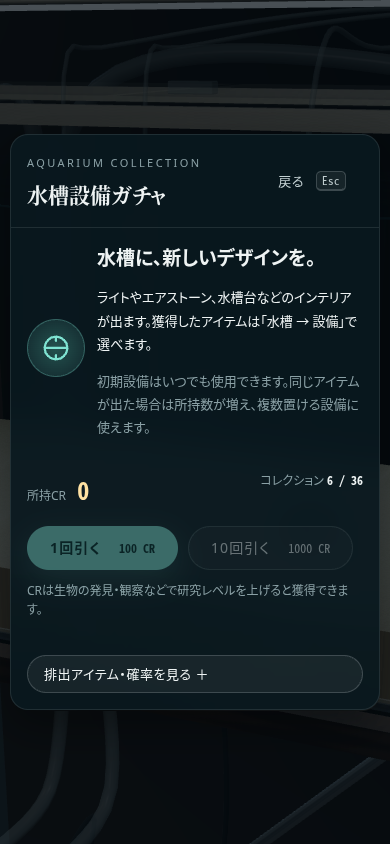
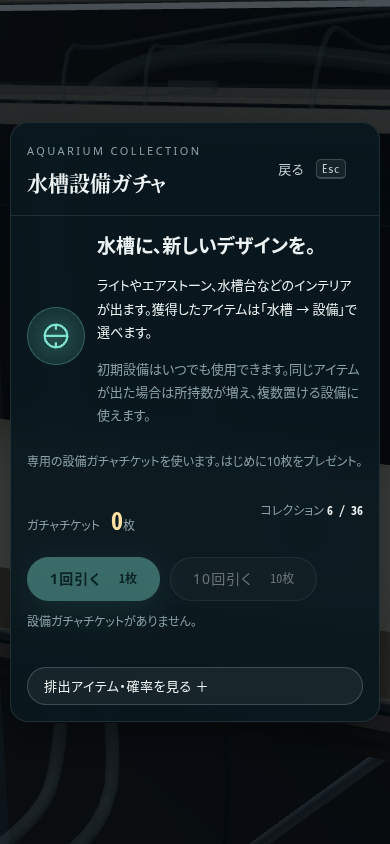
Use dedicated equipment gacha tickets with ten-ticket welcome grant

diff --git a/tests/unit/aquariumCollection.test.ts b/tests/unit/aquariumCollection.test.ts
@@ -1,6 +1,6 @@
 import { describe, expect, it } from 'vitest';
 import { Mesh, PerspectiveCamera, Vector3 } from 'three';
-import { AquariumEquipment, CATEGORY_LABELS, EQUIPMENT_CATEGORIES, EQUIPMENT_ITEMS, GACHA_COST, GACHA_POOL, categoryLimit, defaultEquipmentLayout, drawEquipment, emptyEquipmentCollection, gachaProbability, itemForCategory, normalizeCollection, normalizeEquipment, ownedEquipmentLayout, ownedQuantity, usedQuantity } from '../../src/aquarium';
+import { AquariumEquipment, CATEGORY_LABELS, EQUIPMENT_CATEGORIES, EQUIPMENT_ITEMS, GACHA_POOL, categoryLimit, defaultEquipmentLayout, drawEquipment, emptyEquipmentCollection, gachaProbability, itemForCategory, normalizeCollection, normalizeEquipment, ownedEquipmentLayout, ownedQuantity, usedQuantity } from '../../src/aquarium';
 import { emptySave, SaveStore } from '../../src/core/Save';
 
 describe('aquarium collection and gacha', () => {
@@ -17,21 +17,34 @@ describe('aquarium collection and gacha', () => {
     expect(categoryLimit('stand')).toBe(1); expect(categoryLimit('airStone')).toBeGreaterThan(1);
   });
 
-  it('charges once per draw, awards quantities, and leaves the input snapshot intact', () => {
-    const initial = emptyEquipmentCollection(), draw = drawEquipment(initial, GACHA_COST * 10, 10, () => 0)!;
-    expect(draw.money).toBe(0); expect(draw.results).toHaveLength(10); expect(draw.collection.draws).toBe(10);
+  it('starts with ten tickets, spends one per draw, and awards quantities atomically', () => {
+    const initial = emptyEquipmentCollection(), draw = drawEquipment(initial, 10, () => 0)!;
+    expect(initial.tickets).toBe(10); expect(draw.collection.tickets).toBe(0);
+    expect(draw.results).toHaveLength(10); expect(draw.collection.draws).toBe(10);
     expect(draw.results[0]).toEqual({ itemId: GACHA_POOL[0].id, isNew: true, quantity: 1 });
     expect(draw.results[9]).toEqual({ itemId: GACHA_POOL[0].id, isNew: false, quantity: 10 });
     expect(draw.collection.stock[GACHA_POOL[0].id]).toBe(10); expect(initial).toEqual(emptyEquipmentCollection());
-    expect(drawEquipment(initial, GACHA_COST, 1, () => 1 - Number.EPSILON)!.results[0].itemId).toBe(GACHA_POOL.at(-1)!.id);
+    const single = drawEquipment(initial, 1, () => 1 - Number.EPSILON)!;
+    expect(single.results[0].itemId).toBe(GACHA_POOL.at(-1)!.id); expect(single.collection.tickets).toBe(9);
+    expect(drawEquipment(single.collection, 10)).toBeNull(); expect(drawEquipment(draw.collection, 1)).toBeNull();
   });
 
-  it('rejects insufficient credits, invalid counts and invalid random values atomically', () => {
+  it('rejects insufficient or invalid tickets, invalid counts and invalid random values atomically', () => {
     const initial = emptyEquipmentCollection();
-    for (const money of [99, -1, NaN, Infinity]) expect(drawEquipment(initial, money, 1)).toBeNull();
-    for (const count of [0, 2, 9, NaN]) expect(drawEquipment(initial, 1000, count)).toBeNull();
-    let i = 0; expect(drawEquipment(initial, 1000, 10, () => ++i < 4 ? 0 : NaN)).toBeNull();
+    for (const tickets of [0, -1, 1.5, NaN, Infinity]) expect(drawEquipment({ ...initial, tickets }, 1)).toBeNull();
+    for (const count of [0, 2, 9, NaN]) expect(drawEquipment(initial, count)).toBeNull();
+    let i = 0; expect(drawEquipment(initial, 10, () => ++i < 4 ? 0 : NaN)).toBeNull();
     expect(initial).toEqual(emptyEquipmentCollection());
+  });
+
+  it('grants ten tickets to old collections once and preserves spent balances on later loads', () => {
+    const legacy = { version: 1, stock: { 'stand-studio': 2 }, draws: 15 };
+    const migrated = normalizeCollection(legacy);
+    expect(migrated).toEqual({ ...legacy, tickets: 10 }); expect(normalizeCollection(migrated)).toEqual(migrated);
+    const spent = drawEquipment(migrated, 10, () => 0)!.collection;
+    expect(normalizeCollection(spent)).toEqual(spent); expect(normalizeCollection(spent).tickets).toBe(0);
+    expect(normalizeCollection({ ...migrated, tickets: 3 }).tickets).toBe(3);
+    for (const tickets of [-1, NaN, Infinity, null, '10']) expect(normalizeCollection({ ...legacy, tickets }).tickets).toBe(0);
   });
 
   it('preserves equipped legacy designs while enforcing ownership and quantities in new saves', () => {
@@ -43,24 +56,43 @@ describe('aquarium collection and gacha', () => {
     layout.devices.find((d) => d.kind === 'airStone')!.itemId = 'airStone-ivory';
     layout.devices.push({ ...layout.devices.find((d) => d.kind === 'airStone')!, id: 'stone-two' });
     layout.standItemId = 'stand-studio'; layout.stand = 'metal';
-    const owned = { version: 1 as const, stock: { 'airStone-ivory': 1 }, draws: 1 };
+    const owned = { ...emptyEquipmentCollection(), stock: { 'airStone-ivory': 1 }, draws: 1 };
     const safe = ownedEquipmentLayout(layout, owned);
     expect(safe.stand).toBe('wood'); expect(safe.devices.filter((d) => d.itemId === 'airStone-ivory')).toHaveLength(1);
     expect(usedQuantity(safe, 'airStone-ivory')).toBe(1);
     expect(usedQuantity(safe, 'airStone-ivory', 'airStone')).toBe(0);
     expect(layout.devices.filter((d) => d.itemId === 'airStone-ivory')).toHaveLength(2);
     expect(itemForCategory('heater-studio', 'airStone').id).toBe('airStone-initial');
-    expect(normalizeCollection({ version: 1, stock: { invalid: 2, 'tank-ivory': NaN, 'stand-studio': -1, 'airStone-ivory': 2.9 }, draws: Infinity })).toEqual({ version: 1, stock: { 'airStone-ivory': 2 }, draws: 0 });
+    expect(normalizeCollection({ version: 1, stock: { invalid: 2, 'tank-ivory': NaN, 'stand-studio': -1, 'airStone-ivory': 2.9 }, draws: Infinity })).toEqual({ version: 1, stock: { 'airStone-ivory': 2 }, draws: 0, tickets: 10 });
   });
 
   it('round-trips collection and equipped designs through the real save migration', () => {
     const store = new SaveStore(), save = emptySave('map', 1);
+    delete save.equipmentCollection; // Save created before collections and ticket grants existed.
     save.tank.layout!.equipment = normalizeEquipment({ ...defaultEquipmentLayout(), stand: 'metal' });
     const old = store.importJson(JSON.stringify(save)); expect(old.equipmentCollection!.stock['stand-studio']).toBe(1);
     expect(old.tank.layout!.equipment!.standItemId).toBe('stand-studio');
     const restored = store.importJson(store.exportJson(old)); expect(restored).toEqual(old);
     restored.tank.layout!.equipment!.tankItemId = 'tank-studio';
     expect(store.importJson(store.exportJson(restored)).tank.layout!.equipment!.tankItemId).toBe('tank-initial');
+  });
+
+  it('persists new and migrated ticket balances without changing CR or regranting on reload', () => {
+    const store = new SaveStore(), fresh = emptySave('map', 1);
+    expect(store.importJson(store.exportJson(fresh)).equipmentCollection!.tickets).toBe(10);
+    fresh.player.money = 1200;
+    const legacy = JSON.parse(store.exportJson(fresh));
+    delete legacy.equipmentCollection.tickets;
+    legacy.equipmentCollection.stock = { 'stand-studio': 1 }; legacy.equipmentCollection.draws = 7;
+    const migrated = store.importJson(JSON.stringify(legacy));
+    expect(migrated.equipmentCollection!.tickets).toBe(10);
+    migrated.equipmentCollection = drawEquipment(migrated.equipmentCollection!, 10, () => 0)!.collection;
+    for (let i = 0; i < 2; i++) {
+      const restored = store.importJson(store.exportJson(migrated));
+      expect(restored.equipmentCollection).toEqual(migrated.equipmentCollection);
+      expect(restored.equipmentCollection!.tickets).toBe(0); expect(restored.player.money).toBe(1200);
+      expect(restored.equipmentCollection!.draws).toBe(17); expect(restored.equipmentCollection!.stock['stand-studio']).toBe(1);
+    }
   });
 
   it('swaps models without moving endpoints or changing operation and shares finish materials', () => {

diff --git a/src/ui/home/GachaScreen.tsx b/src/ui/home/GachaScreen.tsx
@@ -1,22 +1,23 @@
 import { Fragment } from 'preact';
 import { useState } from 'preact/hooks';
 import type { App } from '../../app/App';
-import { CATEGORY_LABELS, EQUIPMENT_CATEGORIES, GACHA_COST, GACHA_POOL, equipmentItem, gachaProbability, ownedQuantity, type EquipmentCategory } from '../../aquarium';
+import { CATEGORY_LABELS, EQUIPMENT_CATEGORIES, GACHA_TICKET_COST, GACHA_POOL, INITIAL_GACHA_TICKETS, equipmentItem, gachaProbability, ownedQuantity, type EquipmentCategory } from '../../aquarium';
 import { ui } from '../store';
 import { EquipmentSwatch } from '../common/EquipmentSwatch';
 import { CapsuleIcon, Key } from '../common/Icons';
 
 export function GachaScreen({ app }: { app: App }) {
-  const collection = app.equipmentCollection.value, money = app.encyclopedia.money.value, busy = app.gachaBusy.value, results = ui.gachaResults.value;
+  const collection = app.equipmentCollection.value, tickets = collection.tickets, busy = app.gachaBusy.value, results = ui.gachaResults.value;
   const [category, setCategory] = useState<EquipmentCategory | 'all'>('all'), [showPool, setShowPool] = useState(false);
   const owned = GACHA_POOL.filter((item) => ownedQuantity(collection, item.id) > 0).length;
   return <div class="gacha-screen"><div class="gacha-panel glass">
     <div class="gacha-head"><div><span class="eyebrow">AQUARIUM COLLECTION</span><h2>水槽設備ガチャ</h2></div><button class="btn ghost sm" disabled={busy} onClick={() => app.closeGacha()}>戻る <Key k="Esc" /></button></div>
     <div class="gacha-body">
       <div class="gacha-intro"><span class={`gacha-capsule ${busy ? 'rolling' : ''}`} aria-hidden="true"><CapsuleIcon /></span><div><h3>水槽に、新しいデザインを。</h3><p>ライトやエアストーン、水槽台などのインテリアが出ます。獲得したアイテムは「水槽 → 設備」で選べます。</p><p class="small dim">初期設備はいつでも使用できます。同じアイテムが出た場合は所持数が増え、複数置ける設備に使えます。</p></div></div>
-      <div class="gacha-wallet"><span>所持CR <strong class="num">{money.toLocaleString()}</strong></span><span>コレクション <b class="num">{owned} / {GACHA_POOL.length}</b></span></div>
-      <div class="gacha-draw"><button class="btn primary" disabled={busy || money < GACHA_COST} onClick={() => void app.rollGacha(1)}>1回引く <span class="num">{GACHA_COST} CR</span></button><button class="btn" disabled={busy || money < GACHA_COST * 10} onClick={() => void app.rollGacha(10)}>10回引く <span class="num">{GACHA_COST * 10} CR</span></button></div>
-      {money < GACHA_COST && <p class="small dim">CRは生物の発見・観察などで研究レベルを上げると獲得できます。</p>}
+      <p class="small dim">専用の設備ガチャチケットを使います。はじめに{INITIAL_GACHA_TICKETS}枚をプレゼント。</p>
+      <div class="gacha-wallet"><span>ガチャチケット <strong class="num">{tickets.toLocaleString()}</strong>枚</span><span>コレクション <b class="num">{owned} / {GACHA_POOL.length}</b></span></div>
+      <div class="gacha-draw"><button class="btn primary" disabled={busy || tickets < GACHA_TICKET_COST} onClick={() => void app.rollGacha(1)}>1回引く <span class="num">{GACHA_TICKET_COST}枚</span></button><button class="btn" disabled={busy || tickets < GACHA_TICKET_COST * 10} onClick={() => void app.rollGacha(10)}>10回引く <span class="num">{GACHA_TICKET_COST * 10}枚</span></button></div>
+      {tickets < GACHA_TICKET_COST && <p class="small dim">設備ガチャチケットがありません。</p>}
       {results.length > 0 && <div class="gacha-results" aria-live="polite"><h3>獲得したアイテム</h3><div class="gacha-grid">{results.map((result, i) => {
         const item = equipmentItem(result.itemId)!;
         return <article class={`gacha-result rarity-${item.rarity}`} key={`${result.itemId}-${i}`}><EquipmentSwatch style={item.style} category={item.category} large /><div><span class={`equipment-rarity rarity-${item.rarity}`}>{item.rarity}</span>{result.isNew && <span class="gacha-new">NEW</span>}<small>{CATEGORY_LABELS[item.category]}</small><h4>{item.name}</h4><p class="small dim">{result.isNew ? 'コレクションに追加しました' : `所持数 ${result.quantity}個`}</p><button disabled={busy} onClick={() => app.showGachaEquipment(item.id)}>設備を選ぶ</button></div></article>;

diff --git a/src/aquarium/catalog.ts b/src/aquarium/catalog.ts
@@ -56,8 +56,9 @@ export function itemForCategory(id: string | undefined, category: EquipmentCateg
 export const MULTIPLE_EQUIPMENT = new Set<EquipmentCategory>(['ledLight', 'spongeFilter', 'airPump', 'airStone', 'flowPump', 'circulationPump', 'powerStrip']);
 export const categoryLimit = (category: EquipmentCategory): number => MULTIPLE_EQUIPMENT.has(category) ? 4 : 1;
 
-export interface EquipmentCollection { version: 1; stock: Record<string, number>; draws: number }
-export const emptyEquipmentCollection = (): EquipmentCollection => ({ version: 1, stock: {}, draws: 0 });
+export const INITIAL_GACHA_TICKETS = 10;
+export interface EquipmentCollection { version: 1; stock: Record<string, number>; draws: number; tickets: number }
+export const emptyEquipmentCollection = (): EquipmentCollection => ({ version: 1, stock: {}, draws: 0, tickets: INITIAL_GACHA_TICKETS });
 /** Initial items are always available; acquired items have real quantities for multiple placement. */
 export function ownedQuantity(collection: EquipmentCollection, id: string): number {
   const item = equipmentItem(id); return item?.rarity === 'initial' ? Infinity : collection.stock[id] ?? 0;
@@ -73,6 +74,8 @@ export function normalizeCollection(raw: unknown, legacyLayout?: EquipmentLayout
       if (equipmentItem(id)?.rarity !== 'initial' && equipmentItem(id) && Number.isFinite(count) && count >= 1) result.stock[id] = Math.min(9999, Math.floor(count));
     }
     result.draws = Number.isFinite(r.draws) ? Math.max(0, Math.floor(r.draws)) : 0;
+    // Only saves without a ticket balance receive the welcome grant. A spent balance stays zero.
+    if (Object.prototype.hasOwnProperty.call(r, 'tickets')) result.tickets = Number.isFinite(r.tickets) ? Math.max(0, Math.min(Number.MAX_SAFE_INTEGER, Math.floor(r.tickets))) : 0;
   } else if (legacyLayout) {
     // Existing saves keep their metal stand and any previously equipped valid designs.
     const ids = [legacyLayout.standItemId ?? (legacyLayout.stand === 'metal' ? 'stand-studio' : initialItemId('stand')), legacyLayout.tankItemId, ...legacyLayout.devices.map((d) => d.itemId)];
@@ -92,14 +95,14 @@ export function ownedEquipmentLayout(layout: EquipmentLayout, collection: Equipm
   return { ...layout, tankItemId: tank.id, standItemId: stand.id, stand: stand.stand!, devices: layout.devices.map((d) => ({ ...d, position: [...d.position], itemId: choose(d.itemId, d.kind).id })) };
 }
 
-export const GACHA_COST = 100;
+export const GACHA_TICKET_COST = 1;
 export const GACHA_POOL = EQUIPMENT_ITEMS.filter((i) => i.rarity !== 'initial');
 const weight = (item: EquipmentItem): number => item.rarity === 'R' ? 1 : 4;
 const TOTAL_WEIGHT = GACHA_POOL.reduce((n, i) => n + weight(i), 0);
 export const gachaProbability = (id: string): number => { const item = GACHA_POOL.find((i) => i.id === id); return item ? weight(item) / TOTAL_WEIGHT : 0; };
 export interface GachaResult { itemId: string; isNew: boolean; quantity: number }
-export function drawEquipment(collection: EquipmentCollection, money: number, count: number, random: () => number = Math.random): { collection: EquipmentCollection; money: number; results: GachaResult[] } | null {
-  if ((count !== 1 && count !== 10) || !Number.isFinite(money) || money < GACHA_COST * count) return null;
+export function drawEquipment(collection: EquipmentCollection, count: number, random: () => number = Math.random): { collection: EquipmentCollection; results: GachaResult[] } | null {
+  if ((count !== 1 && count !== 10) || !Number.isSafeInteger(collection.tickets) || collection.tickets < GACHA_TICKET_COST * count) return null;
   const stock = { ...collection.stock }, results: GachaResult[] = [];
   for (let n = 0; n < count; n++) {
     const r = random(); if (!Number.isFinite(r) || r < 0 || r >= 1) return null;
@@ -108,5 +111,5 @@ export function drawEquipment(collection: EquipmentCollection, money: number, co
     const quantity = (stock[item.id] ?? 0) + 1; stock[item.id] = quantity;
     results.push({ itemId: item.id, isNew: quantity === 1, quantity });
   }
-  return { collection: { version: 1, stock, draws: collection.draws + count }, money: money - GACHA_COST * count, results };
+  return { collection: { ...collection, stock, draws: collection.draws + count, tickets: collection.tickets - GACHA_TICKET_COST * count }, results };
 }

diff --git a/src/core/Save.ts b/src/core/Save.ts
@@ -2,7 +2,7 @@ import { get, set, del } from 'idb-keyval';
 import type { TicketState } from './GameClock';
 import type { IndividualRecord } from '../creatures/Individual';
 import type { TankLayout } from '../app/TankLayout';
-import { normalizeCollection, ownedEquipmentLayout, type EquipmentCollection } from '../aquarium/catalog';
+import { emptyEquipmentCollection, normalizeCollection, ownedEquipmentLayout, type EquipmentCollection } from '../aquarium/catalog';
 import { normalizeEquipment } from '../aquarium/state';
 
 export interface SpeciesProgress {
@@ -49,6 +49,7 @@ export function emptySave(map: string, now: number): SaveV1 {
     player: { map, pos: [0, 0, 0], heading: 0, money: 0, research: 0, tools: [DEFAULT_NET, 'shovel'], loadout: [DEFAULT_NET, 'shovel'], skills: {}, levelClaimed: 1 },
     ticket: { active: null, usedCount: 0 },
     encyclopedia: {}, case: [], tank: { individuals: [], lastSimMs: now, layout: { substrate: 'sand', items: [] } }, removedIndividuals: [],
+    equipmentCollection: emptyEquipmentCollection(),
     stats: { playSeconds: 0, captures: 0, observations: 0 },
   };
 }

diff --git a/src/app/App.ts b/src/app/App.ts
@@ -1163,12 +1163,11 @@ export class App {
 
   async rollGacha(count: number): Promise<void> {
     if (!this.save || this.mode !== 'gacha' || this.gachaBusy.value) return;
-    const draw = drawEquipment(this.equipmentCollection.value, this.encyclopedia.money.value, count);
-    if (!draw) { toast('CRが足りません', 'warn'); return; }
+    const draw = drawEquipment(this.equipmentCollection.value, count);
+    if (!draw) { toast('設備ガチャチケットが足りません', 'warn'); return; }
     this.gachaBusy.value = true;
     try {
       this.equipmentCollection.value = draw.collection;
-      this.encyclopedia.money.value = draw.money;
       ui.gachaResults.value = draw.results;
       await this.writeSave();
     } finally { this.gachaBusy.value = false; }

diff --git a/docs/models/aquarium/README.md b/docs/models/aquarium/README.md
@@ -8,9 +8,9 @@
 
 - `catalog.ts`に水槽本体・水槽台・16種の設備、計18カテゴリを定義。各カテゴリは初期/アイボリー/スタジオの3アイテム、計54アイテム。初期18アイテムは常に使用可能、ガチャ排出は36アイテム。
 - 外観は小さな共通パレットで再利用する。水槽は縁の仕上げ、台は木製キャビネット/金属フレーム、ストーンは丸型/長型なども変わる。同じカテゴリの性能・飼育挙動はデザインで変えない。
-- 1回100 CR、10回1000 CR。既存の研究レベル報酬CRを使用。N合計80%、R合計20%、カテゴリごとには均等。各アイテムの確率を画面に表示する。各回は独立で、重複は所持数として加算する。
+- 専用の設備ガチャチケットを初期10枚配布。1回1枚、10回10枚を消費し、CRとは別に管理する。チケット導入前のセーブにも一度だけ10枚を付与し、使い切った残数0は再起動しても維持する。N合計80%、R合計20%、カテゴリごとには均等。各アイテムの確率を画面に表示する。各回は独立で、重複は所持数として加算する。
 - 設置中の`itemId`と所持数を照合し、未獲得・異なるカテゴリ・所持数超過・カテゴリ上限の設置をApp側でも拒否する。ライト/エア設備/水流ポンプ/循環ポンプ/タップはカテゴリあたり4個、他は1個。初期アイテムの数量は設置上限内で自由。
-- セーブに`equipmentCollection: { version: 1, stock, draws }`を追加し、設備側に`itemId`、水槽本体/台には`tankItemId/standItemId`を持たせる。所持品のない旧セーブは、既存の金属台などの使用中デザインを所持品へ移行する。新形式では未所持・数量超過のデザインを初期へ戻す。
+- セーブに`equipmentCollection: { version: 1, stock, draws, tickets }`を追加し、設備側に`itemId`、水槽本体/台には`tankItemId/standItemId`を持たせる。所持品のない旧セーブは、既存の金属台などの使用中デザインを所持品へ移行する。チケット残数のない旧コレクションには初期配布分だけを追加し、所持数・抽選回数・CRは維持する。新形式では未所持・数量超過のデザインを初期へ戻す。
 - 水槽・台・床・生物・水・装飾は`TANK_OFFSET_Y = 0.73 m`だけ上へ移す。棚・窓は部屋座標のまま。配置と飼育は水槽ローカル座標を維持し、光学シェーダー・カメラ・水面/砂面のクリック判定だけを部屋座標へ対応させる。
 
 ## 設計基準と調査の範囲
@@ -92,6 +92,6 @@ npm run build
 CHROMIUM_PATH=/usr/bin/chromium node tests/smoke/aquarium.mjs
 ```
 
-単体テストは全機器・3段階LOD・共通材質・有限ジオメトリ、可変寸法、端子追従、循環/重複の拒否、電源の伝播、空の水回路、温度制御、保存復元を検証する。専用ブラウザテストは設備一覧と詳細、未所持アイテムの拒否、ガチャのCR消費・重複・連打防止、入れ替え・複数設置・自動接続、73cmオフセット後の水面クリックと装飾ドラッグ、新しい生物の描画、背面、モバイル画面、IndexedDBの所持品/配置/通貨復元とシェーダー/ページエラーを検証する。画像は既存のignoredディレクトリ`tests/smoke/out/aquarium-*.png`に出力する。
+単体テストは全機器・3段階LOD・共通材質・有限ジオメトリ、可変寸法、端子追従、循環/重複の拒否、電源の伝播、空の水回路、温度制御、チケットの初期配布・旧セーブ移行・再配布防止・保存復元を検証する。専用ブラウザテストは設備一覧と詳細、未所持アイテムの拒否、初期10枚・ガチャのチケット消費・CRの維持・重複・連打防止、入れ替え・複数設置・自動接続、73cmオフセット後の水面クリックと装飾ドラッグ、新しい生物の描画、背面、モバイル画面、IndexedDBの所持品/配置/通貨/チケット残数0の復元とシェーダー/ページエラーを検証する。画像は既存のignoredディレクトリ`tests/smoke/out/aquarium-*.png`に出力する。
 
 これは汎用の手続きモデル実装であり、「AAA品質」を客観的に認定するものではない。実機GPU上での負荷測定、実製品の資料との最終照合、接写品質のアートレビューは別途必要。現在のゲーム水槽は既存の固定60 cm寸法を維持し、可変寸法は設備ライブラリのAPIで提供する。

diff --git a/docs/models/aquarium/screenshots/README.md b/docs/models/aquarium/screenshots/README.md
@@ -1,6 +1,6 @@
 # 水槽設備・コレクション・ガチャの実装画面
 
-実際のゲームをChromiumで起動して撮影した画像です。ガチャの確認にはブラウザテスト用のCRと固定した抽選結果を使用しています。
+実際のゲームをChromiumで起動して撮影した画像です。ガチャの確認には固定した抽選結果を使用しています。初期10枚を使い切り、その後の単発・連打確認だけテスト用チケット2枚を追加しています。
 
 ## 使用中アイテムの一覧
 
@@ -22,7 +22,7 @@
 
 ## 設備ガチャ
 
-1回100 CR、10回1000 CR。獲得したアイテムと所持数を保存します。画面内をスクロールすると残りの獲得品と排出一覧を確認できます。
+専用ガチャチケットを初期10枚配布。1回1枚、10回10枚で、獲得したアイテム・所持数・残りチケットを保存します。旧セーブにも初回だけ10枚を付与します。画面内をスクロールすると残りの獲得品と排出一覧を確認できます。
 
 ![設備ガチャの獲得画面](gacha.png)
 
